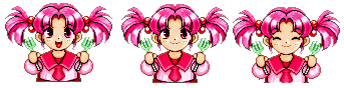
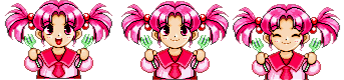
fixed animation bug

diff --git a/js/game.js b/js/game.js
@@ -7,6 +7,9 @@ const POSITION_RIGHT = 2;
 const POSITION_CENTER = 3;
 
 let foods = new Array();
+let tID = null;
+
+let isAnimationDone = true;
 
 function generateFoods(){
     for (let index = 0; index < 6; index++) {
@@ -22,7 +25,6 @@ function drawFood(){
 
 function createFood(){
     let position = Math.floor(Math.random() * 3)+1;
-    console.log(position);
     let image = Math.floor(Math.random() * 4)+1;
     let newFood = document.createElement("div"); 
     if(position == 1){
@@ -38,63 +40,79 @@ function createFood(){
     newFood.setAttribute("position", position);
     return newFood;
 }
-
-window.onkeyup = function(e) {
+ 
+function keyEvent(e) {
     var key = e.keyCode;
     let curr = foods[0];
 
-    if (key == KEY_LEFT) {
+    if (key == KEY_LEFT && isAnimationDone) {
         if(curr.getAttribute("position") == POSITION_LEFT){
             document.getElementById("person").style.backgroundImage = "url(image/person-eat-left.png)";
-            animateScript();
+            animateScript(-11, 185.25);
             foods.splice(0, 1);
             curr.remove();
             drawFood();
         }
         else{
-
+            document.getElementById("person").style.backgroundImage = "url(image/person-wrong-left.png)";
+            animateScript(-11, 185.25);
         }
-    }else if (key == KEY_DOWN || key == KEY_UP) {
+        
+    }else if (key == KEY_DOWN || key == KEY_UP && isAnimationDone) {
         if(curr.getAttribute("position") == POSITION_CENTER){
-            animateScript();
+            document.getElementById("person").style.backgroundImage = "url(image/person-eat-right.png)";
+            animateScript(-11, 185.25);
             foods.splice(0, 1);
             curr.remove();
             drawFood();
         }
         else{
-
+            document.getElementById("person").style.backgroundImage = "url(image/person-wrong-left.png)";
+            animateScript(-11, 185.25);
         }
-    }else if(key == KEY_RIGHT){
+
+    }else if(key == KEY_RIGHT && isAnimationDone){
         if(curr.getAttribute("position") == POSITION_RIGHT){
             document.getElementById("person").style.backgroundImage = "url(image/person-eat-right.png)";
-            animateScript();
+            animateScript(-11, 185.25);
             foods.splice(0, 1);
             curr.remove();
             drawFood();
         }
         else{
-
+            document.getElementById("person").style.backgroundImage = "url(image/person-wrong-right.png)";
+            animateScript(-11, 185.25);
         }
     }
 }
 
-
-function animateScript() {
-    var position = 183;
-    const interval = 100;
-    let tID = setInterval (function(){
-    document.getElementById("person").style.backgroundPosition = `-${position}px 0px`; 
-    if(position < 300) 
-        position = position + 185.25;
-    else
+function toIdle(){
+    if(tID)
         clearInterval(tID);
+    document.getElementById("person").style.backgroundImage = "url(image/person-idle.png)";
+    document.getElementById("person").style.backgroundPosition = `-11px 0px`;
+    isAnimationDone = true;
+}
+
+
+function animateScript(position, addition) {
+    var position = position;
+    const interval = 120;
+    isAnimationDone = false;
+    tID = setInterval (function(){
+        document.getElementById("person").style.backgroundPosition = `${position}px 0px`; 
+        if(position < 300) 
+            position = position + addition;
+        else{
+            clearInterval(tID);
+            toIdle();
+        }
+        
     }
     , interval ); 
 }
 
+window.onkeyup = keyEvent;
 window.onload = function(){
     generateFoods();
-
-    
-    animateScript();
 }

diff --git a/css/game.css b/css/game.css
@@ -64,8 +64,8 @@ body{
 #person{
     width:185.25px;
     height: 75%;
-    background-image: url("../image/person-wrong-right.png");
-    background-position: 0;
+    background-image: url("../image/person-idle.png");
+    background-position: -11px;
     background-size: cover;
 }
 
